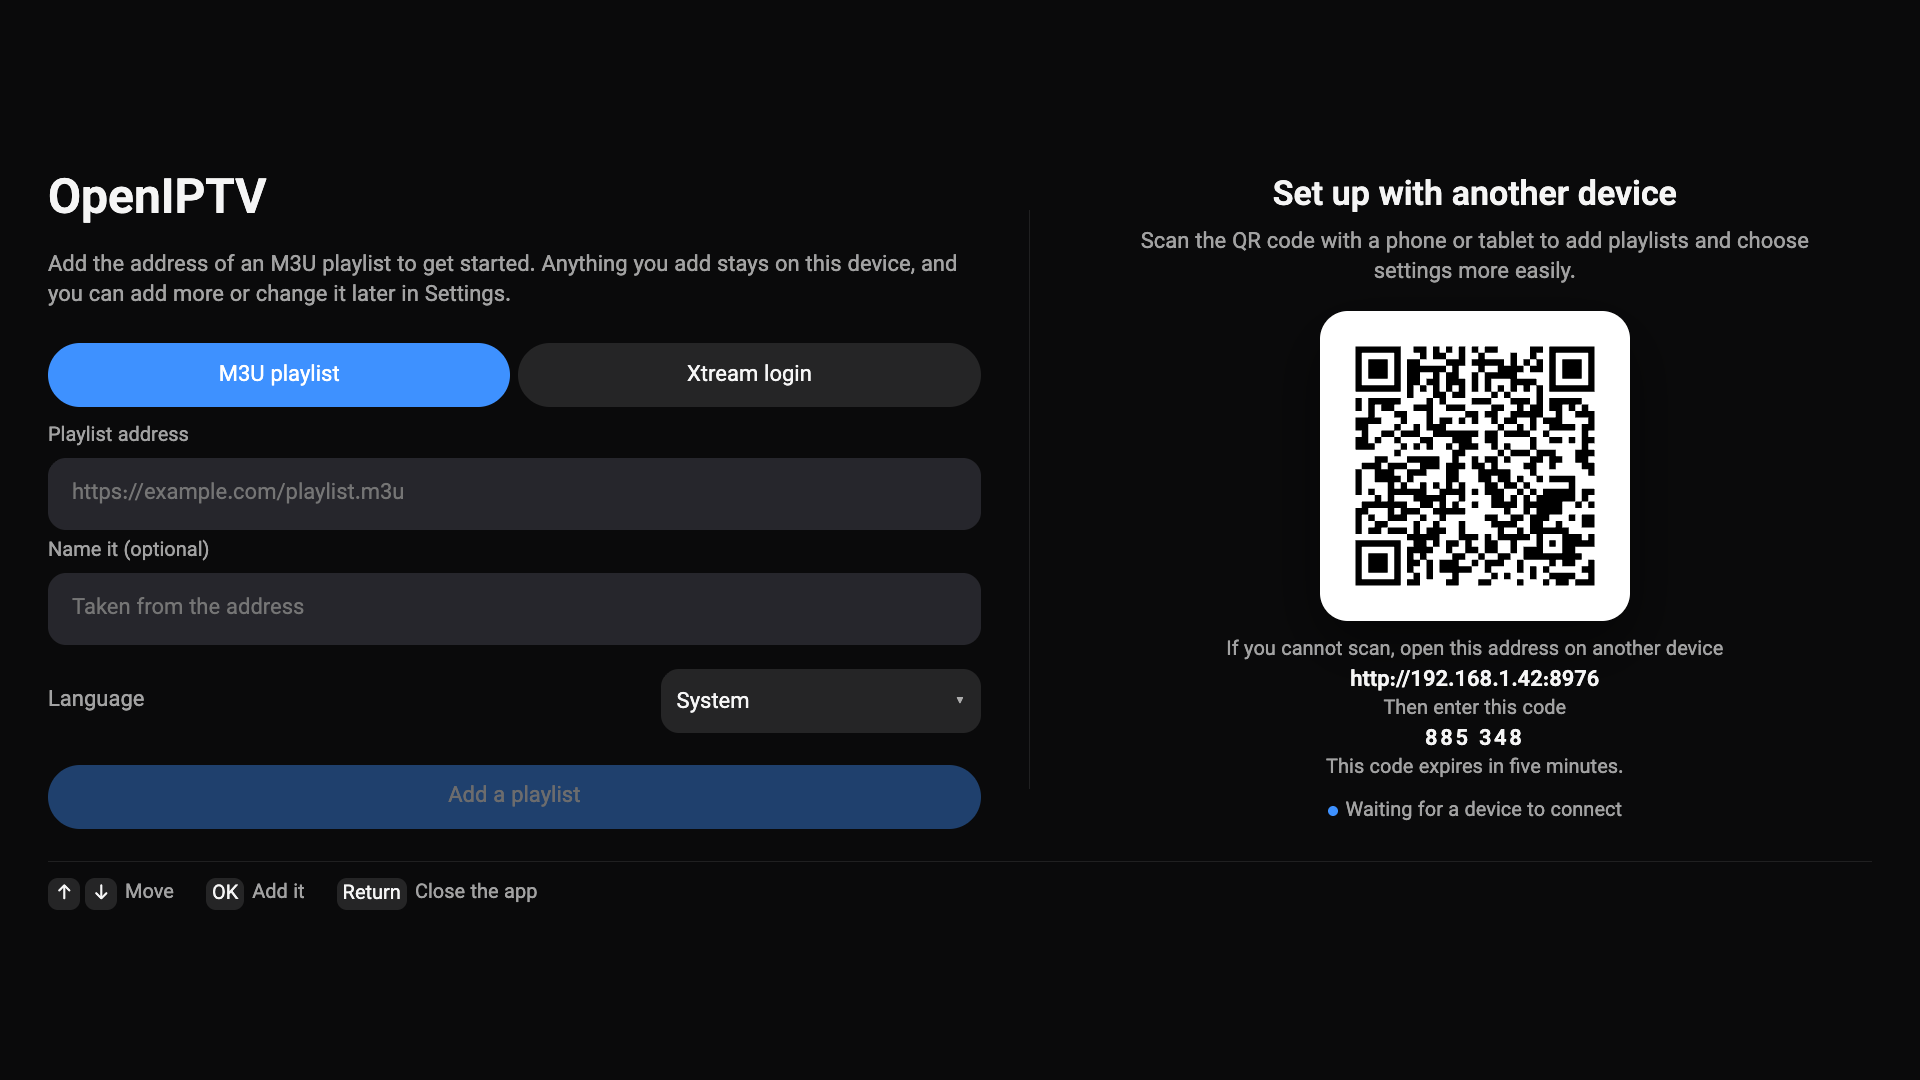
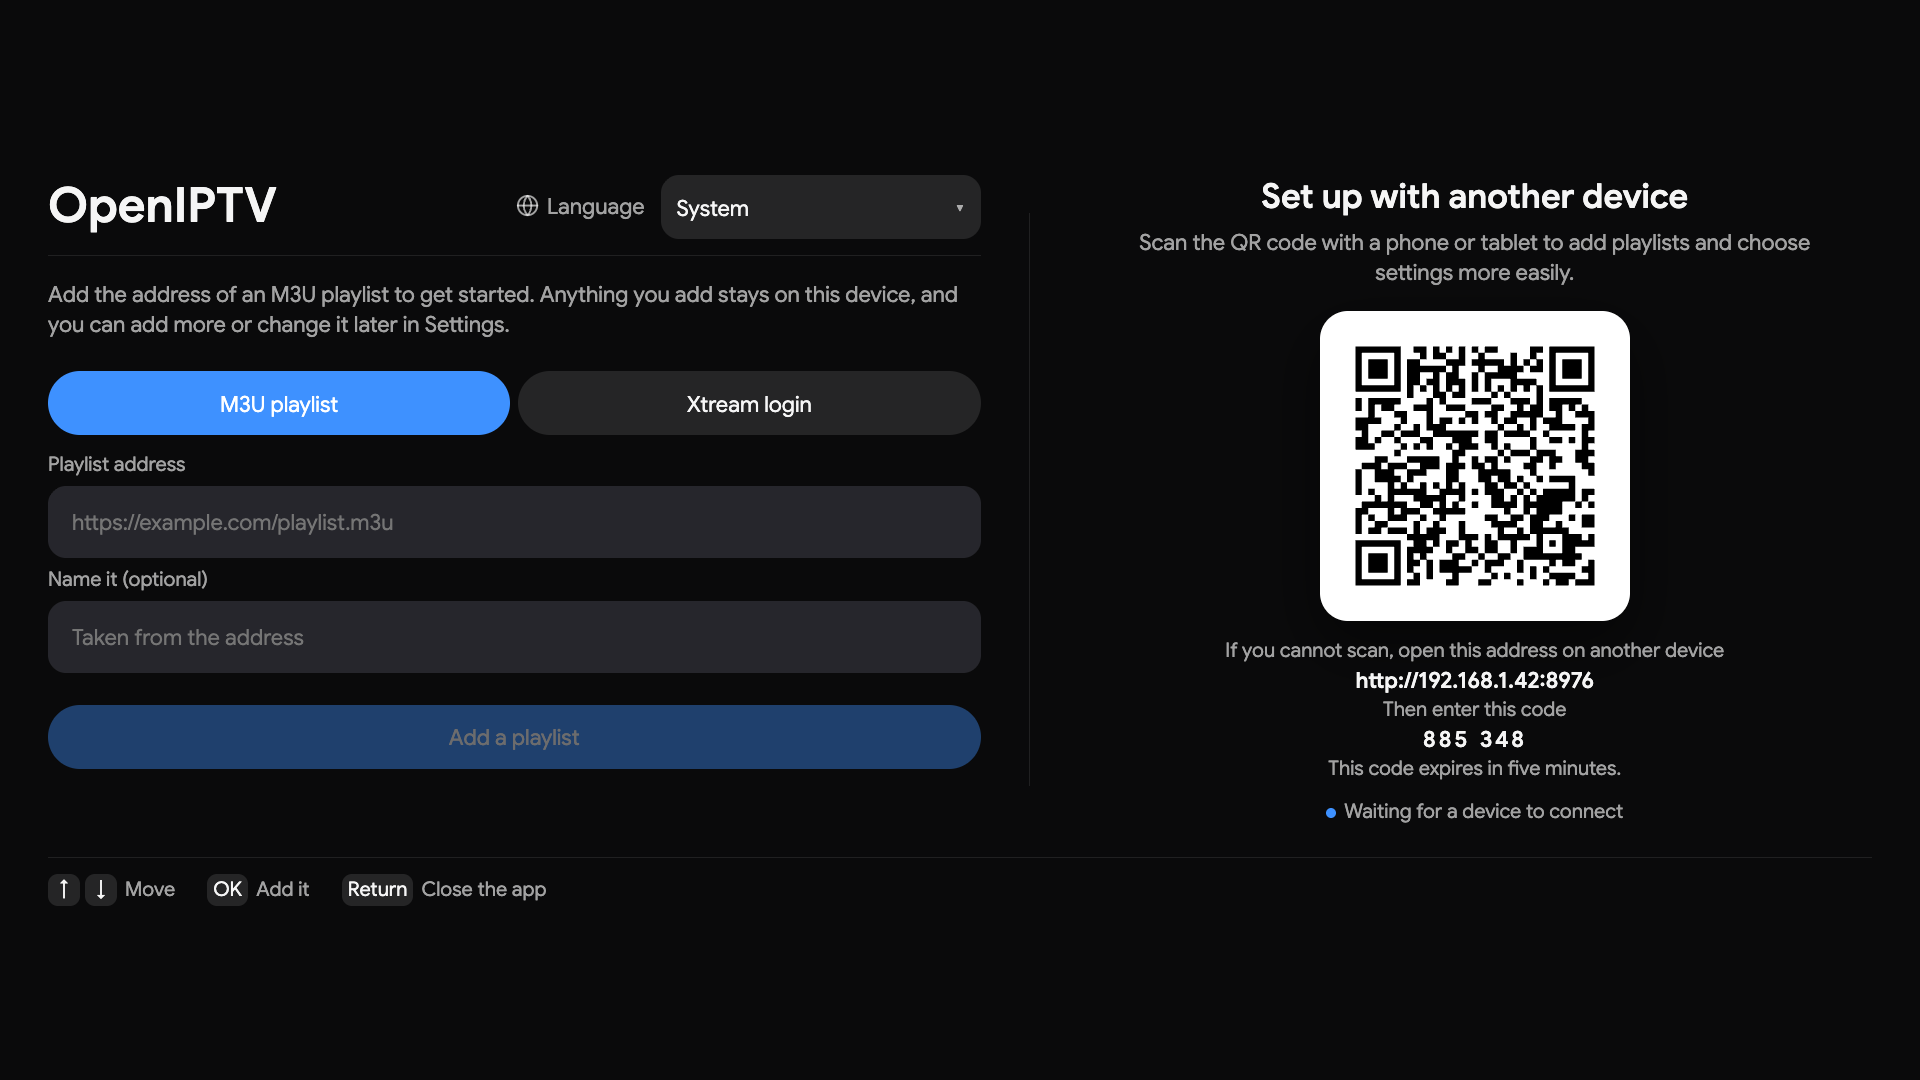
feat(onboard): move language into the welcome header
The language row sat between the form and the button, its label hard left and
its control hard right, which read as a stray row rather than part of either.
The title and the picker now share a header, with a globe icon beside the label
and a rule under the whole row, so the first decision on the screen is not
buried in the middle of the playlist form. Vertical movement follows what is on
screen from top to bottom.

The Xtream fields here move to the shared address parse at the same time, so a
template or a watermarked address pasted into either field fills the login in
without eating a username already typed.

Changed region(s): [[0.0, 0.1528, 0.5312, 0.8556], [0.625, 0.5806, 0.9062, 0.7639], [0.5938, 0.1528, 0.9375, 0.275]]

diff --git a/tests/onboarding-language.test.tsx b/tests/onboarding-language.test.tsx
@@ -120,6 +120,100 @@ test("Xtream setup extracts credentials pasted into the server field", () => {
   );
 });
 
+test("a credential-less Xtream template still raises the suggestion", () => {
+  render(<Onboarding onAdd={() => {}} onExit={() => {}} />);
+
+  fireEvent.change(screen.getByLabelText("Playlist address"), {
+    target: {
+      value: "http://template.example/get.php?username=&password=&type=m3u_plus&output=m3u8",
+    },
+  });
+
+  expect(screen.getByText("This address contains an Xtream login.")).toBeTruthy();
+  fireEvent.click(screen.getByRole("button", { name: "Use Xtream" }));
+
+  expect((screen.getByLabelText("Server address") as HTMLInputElement).value).toBe(
+    "http://template.example",
+  );
+  expect((screen.getByLabelText("Username") as HTMLInputElement).value).toBe("");
+  expect((screen.getByLabelText("Password") as HTMLInputElement).value).toBe("");
+  expect(screen.getByLabelText("Stream format").getAttribute("aria-label")).toBe(
+    "Stream format, HLS, recommended",
+  );
+});
+
+test("a watermarked Xtream address still raises the suggestion and converts", () => {
+  render(<Onboarding onAdd={() => {}} onExit={() => {}} />);
+
+  fireEvent.change(screen.getByLabelText("Playlist address"), {
+    target: {
+      value:
+        "http://listshare@watermarked.example:80/get.php?username=viewer&password=secret&type=m3u",
+    },
+  });
+
+  expect(screen.getByText("This address contains an Xtream login.")).toBeTruthy();
+  fireEvent.click(screen.getByRole("button", { name: "Use Xtream" }));
+
+  expect((screen.getByLabelText("Server address") as HTMLInputElement).value).toBe(
+    "http://watermarked.example",
+  );
+  expect((screen.getByLabelText("Username") as HTMLInputElement).value).toBe("viewer");
+  expect((screen.getByLabelText("Password") as HTMLInputElement).value).toBe("secret");
+});
+
+test("an open stream format list keeps the arrow keys inside it", () => {
+  render(<Onboarding onAdd={() => {}} onExit={() => {}} />);
+  fireEvent.click(screen.getByRole("button", { name: "Xtream login" }));
+  const output = screen.getByLabelText("Stream format");
+  output.focus();
+
+  press(KEY.ENTER);
+  const list = screen.getByRole("listbox", { name: "Stream format" });
+  expect(document.activeElement).toBe(screen.getByRole("option", { name: "HLS, recommended" }));
+
+  press(KEY.DOWN);
+  const mpegTs = screen.getByRole("option", { name: "MPEG TS" });
+  expect(document.activeElement).toBe(mpegTs);
+  expect(list.contains(document.activeElement)).toBe(true);
+
+  /* Left is a way out rather than a sideways move: the press only closes the list, and
+     focus lands back on the trigger. */
+  press(KEY.LEFT);
+  expect(screen.queryByRole("listbox", { name: "Stream format" })).toBeNull();
+  expect(document.activeElement).toBe(output);
+  expect(output.getAttribute("aria-label")).toBe("Stream format, HLS, recommended");
+
+  press(KEY.ENTER);
+  press(KEY.DOWN);
+  press(KEY.ENTER);
+  expect(screen.queryByRole("listbox", { name: "Stream format" })).toBeNull();
+  expect(output.getAttribute("aria-label")).toBe("Stream format, MPEG TS");
+});
+
+test("an open language list keeps focus inside and Return closes it", () => {
+  render(<Onboarding onAdd={() => {}} onExit={() => {}} />);
+  const trigger = screen.getByRole("button", { name: "Language, English" });
+  trigger.focus();
+  press(KEY.ENTER);
+
+  const list = screen.getByRole("listbox", { name: "Language" });
+  const start = document.activeElement as HTMLElement;
+  expect(list.contains(start)).toBe(true);
+
+  press(KEY.DOWN);
+  const moved = document.activeElement as HTMLElement;
+  expect(list.contains(moved)).toBe(true);
+  expect(moved).not.toBe(start);
+
+  press(KEY.UP);
+  expect(document.activeElement).toBe(start);
+
+  press(KEY.BACK);
+  expect(screen.queryByRole("listbox", { name: "Language" })).toBeNull();
+  expect(document.activeElement).toBe(trigger);
+});
+
 test("source buttons own physical arrow navigation on the welcome screen", () => {
   render(<Onboarding onAdd={() => {}} onExit={() => {}} />);
   const m3u = screen.getByRole("button", { name: "M3U playlist" });
@@ -139,6 +233,8 @@ test("source buttons own physical arrow navigation on the welcome screen", () =>
     fireEvent.keyDown(document.activeElement!, { keyCode: KEY.DOWN });
     expect(document.activeElement).toBe(screen.getByLabelText(label));
   }
+  /* The language picker sits in the header above the form, so it is the last stop down
+     before the cycle wraps back to the selected source. */
   fireEvent.keyDown(document.activeElement!, { keyCode: KEY.DOWN });
   expect(document.activeElement).toBe(
     screen.getByRole("button", { name: "Language, English" }),

diff --git a/src/components/Onboarding.tsx b/src/components/Onboarding.tsx
@@ -8,12 +8,14 @@ import {
   checkPlaylistUrl,
   m3uSource,
   nameFromUrl,
-  parseXtreamPlaylistUrl,
+  parseXtreamTemplateUrl,
   type PlaylistSource,
   sourceDisplay,
+  xtreamFromServerField,
   xtreamSource,
 } from "../services/playlistUrl";
 import type { MessageKey } from "../services/locale";
+import { Icon } from "./Icon";
 import { LanguagePicker } from "./LanguagePicker";
 import { OptionPicker } from "./OptionPicker";
 import { KeyGuide } from "./KeyGuide";
@@ -68,7 +70,7 @@ export function Onboarding({
   const url = source.kind === "m3u" ? source.url : "";
   const suggestedXtream =
     source.kind === "m3u" && source.url !== dismissedXtreamUrl
-      ? parseXtreamPlaylistUrl(source.url, "m3u8")
+      ? parseXtreamTemplateUrl(source.url, "m3u8")
       : null;
   const server = source.kind === "xtream" ? source.server : "";
   const username = source.kind === "xtream" ? source.username : "";
@@ -89,12 +91,13 @@ export function Onboarding({
       sources.find((button) => button.getAttribute("aria-pressed") === "true") ?? sources[0];
     const active = document.activeElement as HTMLElement | null;
     const sourceFocus = sources.includes(active as HTMLButtonElement) ? active : selectedSource;
-    const remaining = Array.from(
+    const ordered = Array.from(
       container.querySelectorAll<HTMLElement>(
         "button:not([hidden]):not([disabled]):not([tabindex='-1']), input:not([hidden]):not([disabled]):not([tabindex='-1'])",
       ),
-    ).filter((element) => !sources.includes(element as HTMLButtonElement));
-    const ordered = sourceFocus ? [sourceFocus, ...remaining] : remaining;
+    ).filter(
+      (element) => !sources.includes(element as HTMLButtonElement) || element === sourceFocus,
+    );
     if (!ordered.length) return false;
     const current = Math.max(0, ordered.indexOf(active as HTMLElement));
     const delta = code === KEY.DOWN ? 1 : -1;
@@ -208,7 +211,19 @@ export function Onboarding({
             ref={manual}
             onKeyDownCapture={captureWelcomeVertical}
           >
-            <h1>OpenIPTV</h1>
+            <header className="onboard-head">
+              <h1>OpenIPTV</h1>
+              <div className="onboard-language">
+                <span className="onboard-language-label">
+                  <Icon name="language" />
+                  {t("settings.language")}
+                </span>
+                <LanguagePicker
+                  value={settings.locale}
+                  onChange={(id) => settings.set("locale", id)}
+                />
+              </div>
+            </header>
             <p className="lead">{t("onboarding.description")}</p>
 
             <div className="form">
@@ -300,10 +315,7 @@ export function Onboarding({
                     onChange={(event) => {
                       setSetup({
                         name,
-                        source: parseXtreamPlaylistUrl(event.target.value, "m3u8") ?? {
-                          ...source,
-                          server: event.target.value,
-                        },
+                        source: xtreamFromServerField(source, event.target.value),
                       });
                       setProblem("");
                     }}
@@ -356,16 +368,6 @@ export function Onboarding({
                 placeholder={t("onboarding.takenFromAddress")}
                 onChange={(e) => setSetup({ name: e.target.value, source })}
               />
-            </div>
-
-            <div className="onboard-language">
-              <span className="onboard-language-label">{t("settings.language")}</span>
-              <div className="onboard-language-options">
-                <LanguagePicker
-                  value={settings.locale}
-                  onChange={(id) => settings.set("locale", id)}
-                />
-              </div>
             </div>
 
             <button

diff --git a/src/styles/app.css b/src/styles/app.css
@@ -1840,22 +1840,30 @@ html[dir="rtl"] .playback-info {
   color: var(--text-3);
   font-size: var(--t-caption);
 }
-.onboard-language {
+.onboard-head {
   display: flex;
   align-items: center;
   justify-content: space-between;
-  margin-top: var(--s3);
+  padding-bottom: var(--s2);
+  margin-bottom: var(--s3);
+  border-bottom: 1px solid var(--line);
+}
+.onboard-head h1 {
+  margin-bottom: 0;
+}
+.onboard-language {
+  display: inline-flex;
+  align-items: center;
 }
 .onboard-language-label {
+  display: inline-flex;
+  align-items: center;
+  margin-right: var(--s2);
   color: var(--text-2);
   font-size: var(--t-label);
 }
-.onboard-language-options {
-  display: flex;
-  flex-wrap: wrap;
-  justify-content: flex-end;
-  gap: var(--s1);
-  max-width: 820px;
+.onboard-language-label .icon {
+  margin-right: var(--s1);
 }
 .option-picker {
   position: relative;
@@ -4284,6 +4292,14 @@ html[dir="rtl"] .onboard-manual,
 html[dir="rtl"] .remote-setup {
   direction: rtl;
 }
+html[dir="rtl"] .onboard-language-label {
+  margin-right: 0;
+  margin-left: var(--s2);
+}
+html[dir="rtl"] .onboard-language-label .icon {
+  margin-right: 0;
+  margin-left: var(--s1);
+}
 html[dir="rtl"] .remote-status.listening::before {
   margin-right: 0;
   margin-left: var(--s1);
@@ -4480,13 +4496,6 @@ html[dir="rtl"] .no-flex-gap .hints.sheet-hints > * + * {
   margin-top: var(--s1);
 }
 html[dir="rtl"] .no-flex-gap .field-control > * + * {
-  margin-left: 0;
-  margin-right: var(--s1);
-}
-.no-flex-gap .onboard-language-options > * + * {
-  margin-left: var(--s1);
-}
-html[dir="rtl"] .no-flex-gap .onboard-language-options > * + * {
   margin-left: 0;
   margin-right: var(--s1);
 }

diff --git a/src/components/Icon.tsx b/src/components/Icon.tsx
@@ -80,6 +80,13 @@ const paths: Record<string, React.ReactNode> = {
       <path d="M8 13h.01M12 13h.01M16 13h.01M8 17h.01M12 17h.01M16 17h.01" />
     </>
   ),
+  language: (
+    <>
+      <circle cx="12" cy="12" r="10" />
+      <path d="M12 2a14.5 14.5 0 0 0 0 20 14.5 14.5 0 0 0 0-20" />
+      <path d="M2 12h20" />
+    </>
+  ),
   more: (
     <>
       <circle cx="12" cy="12" r="1" />
